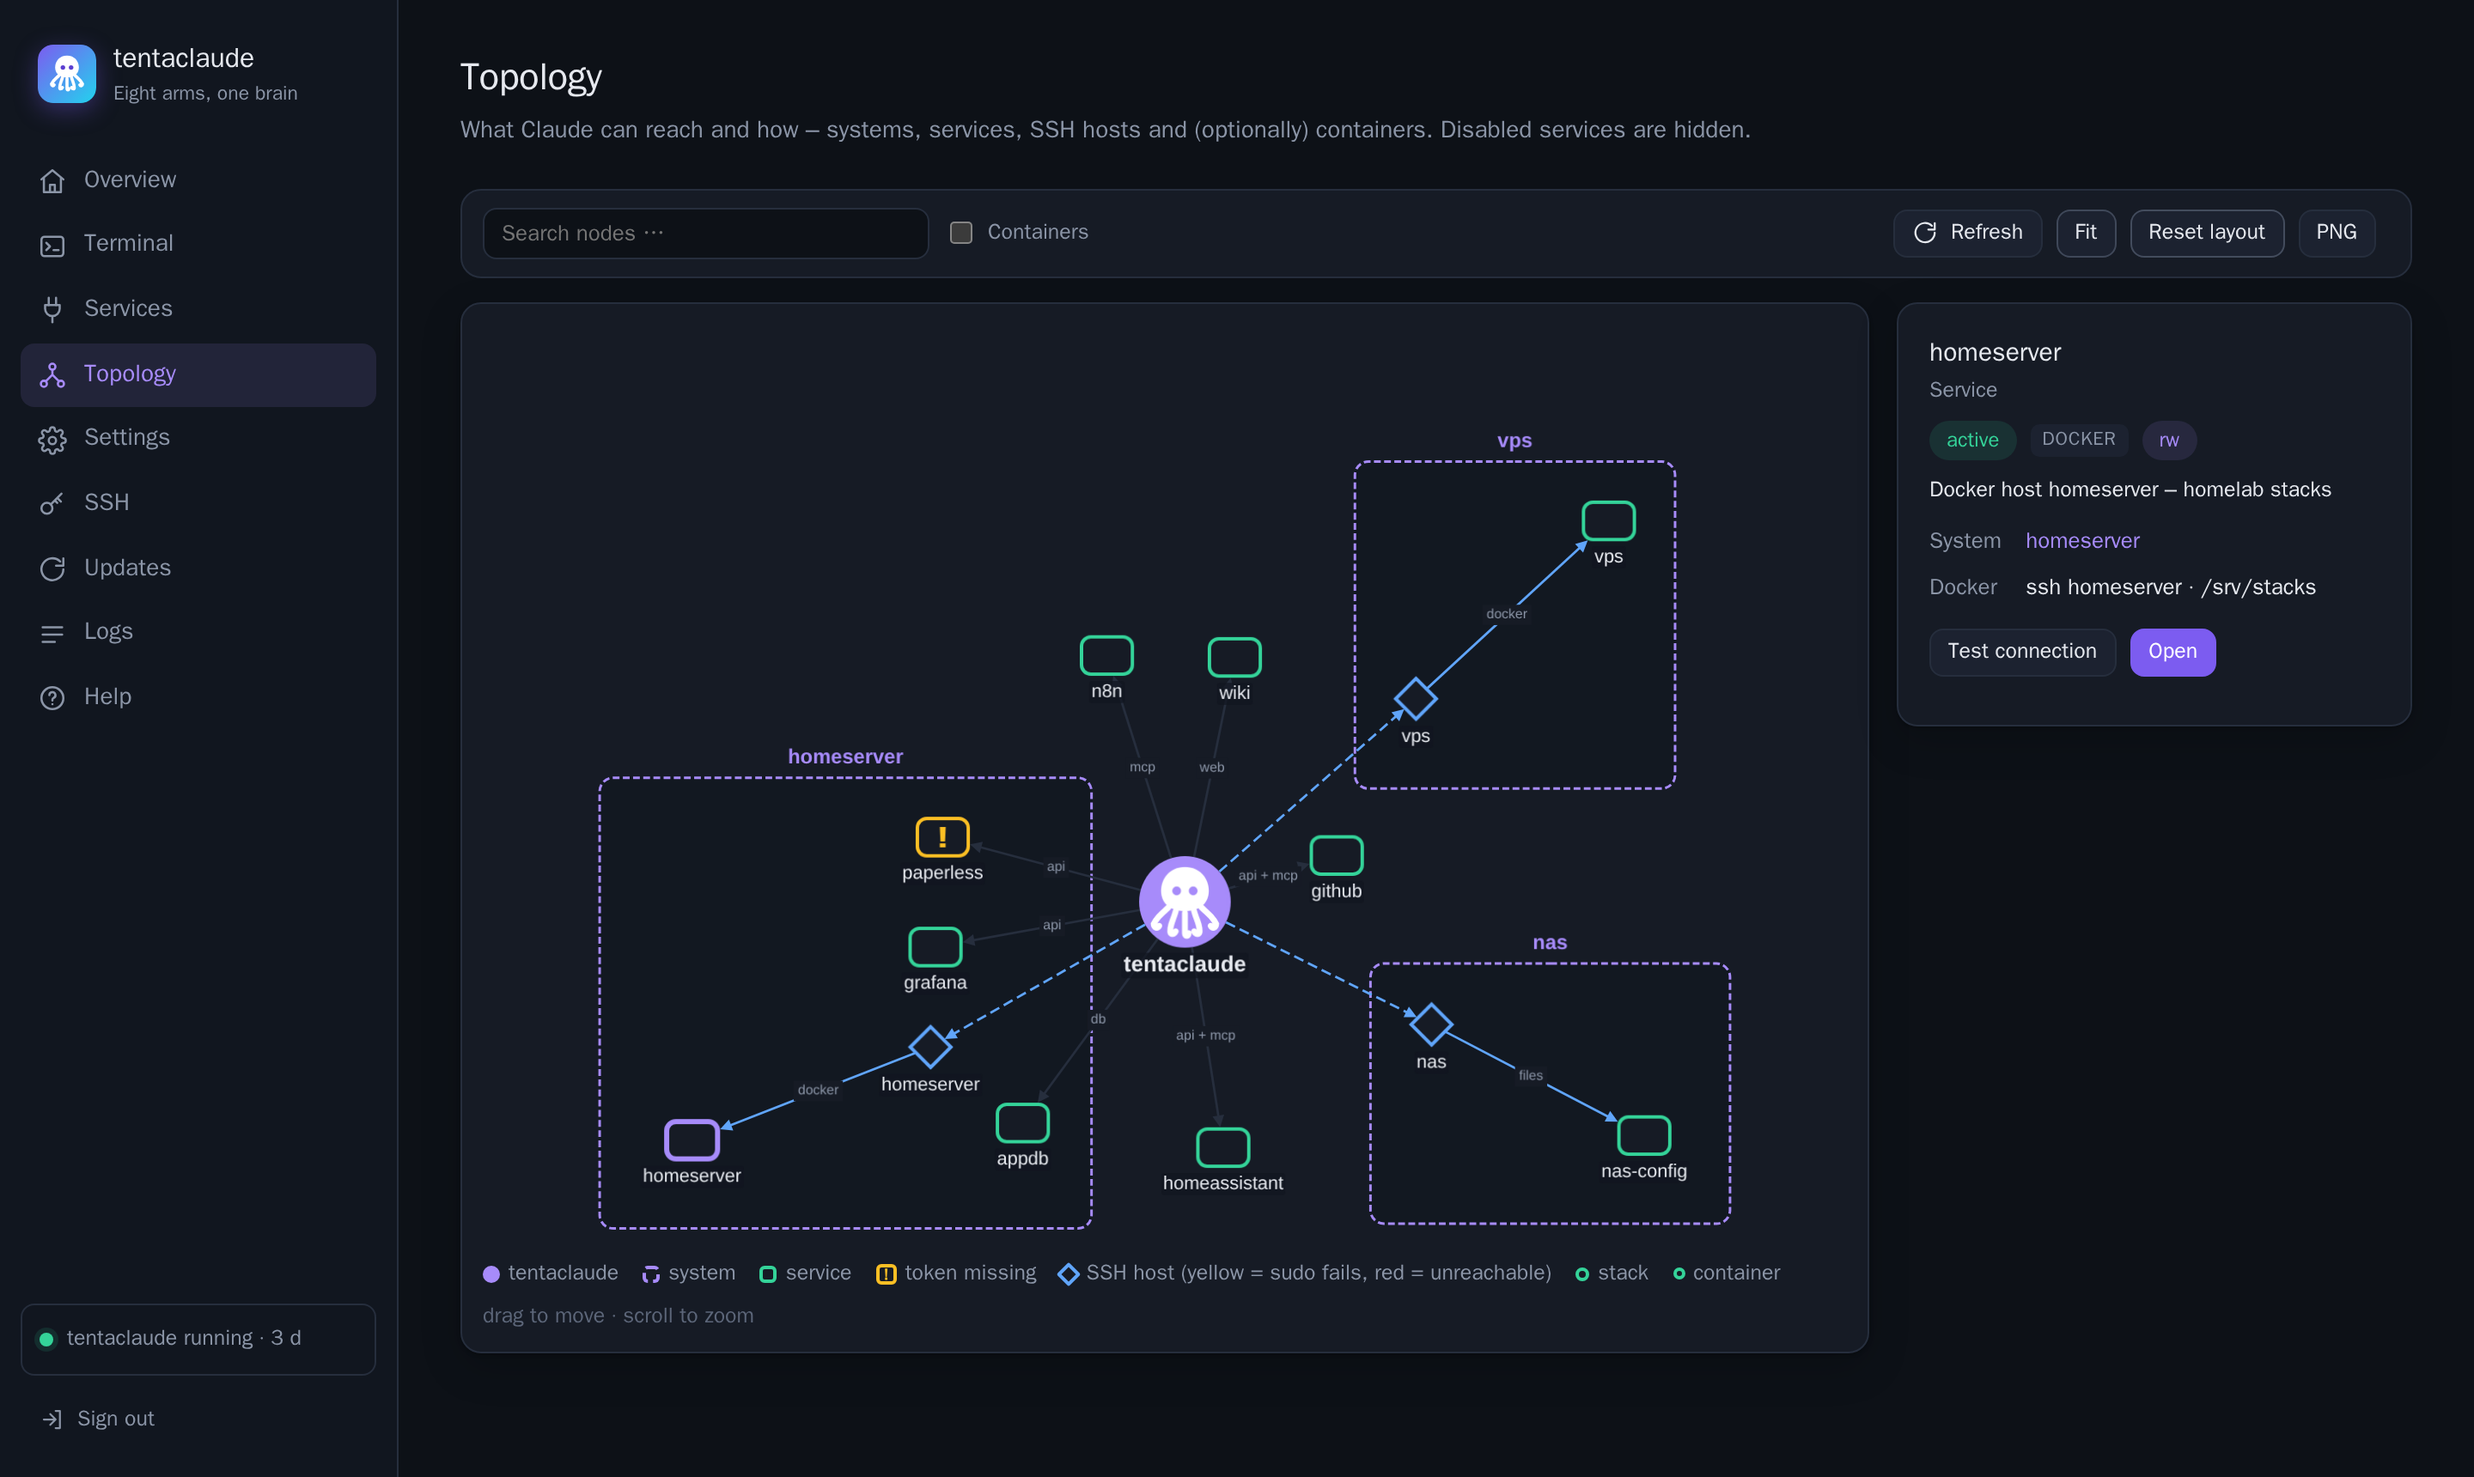
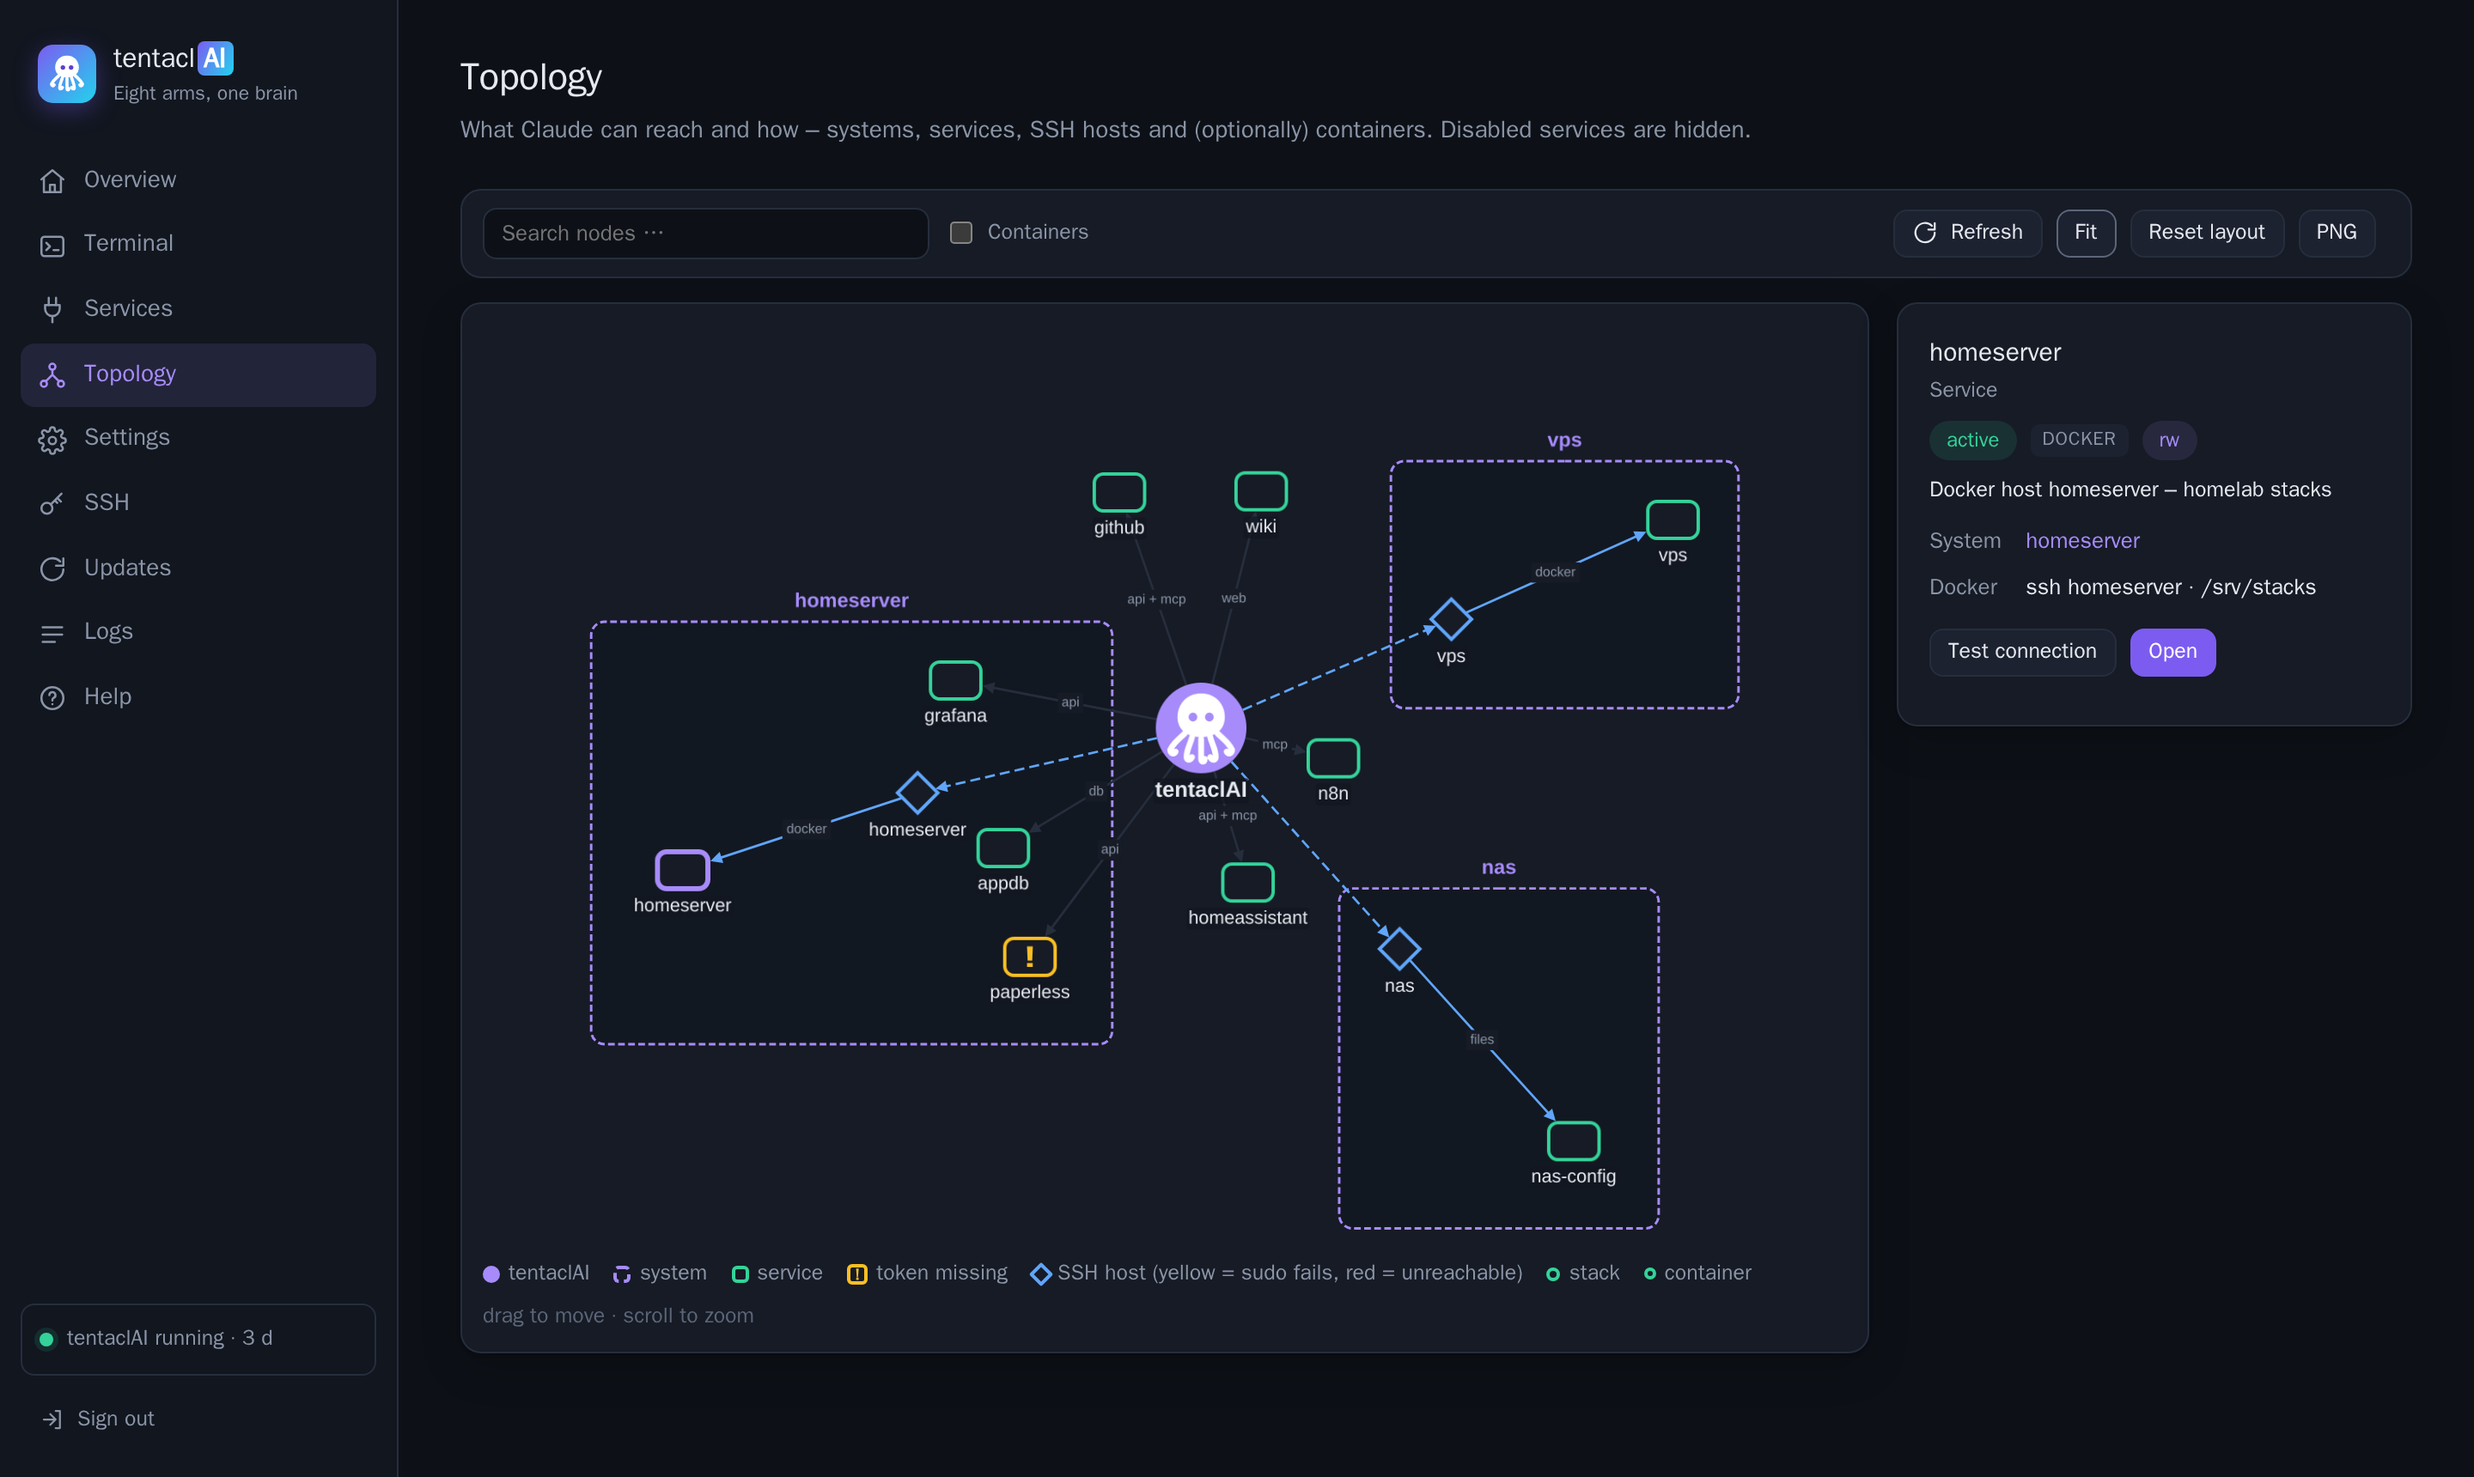
Branding: tentaclAI wordmark with AI badge, social preview
- wordmark "tentacl" + gradient AI badge in sidebar, login and setup
- README header uses the wordmark (light/dark via <picture>)
- docs/brand: social preview 1280×640 and wordmark PNGs
- screenshots and remaining display strings show tentaclAI

diff --git a/control/app/templates/base.html b/control/app/templates/base.html
@@ -13,7 +13,7 @@
 <body hx-headers='{"X-Requested-With": "htmx"}'>
 <div class="app">
   <aside class="sidebar">
-    <div class="brand"><img class="logo" src="/static/logo.svg?v={{ asset_v }}" alt="" width="32" height="32"><div>tentaclAI<small>Eight arms, one brain</small></div></div>
+    <div class="brand"><img class="logo" src="/static/logo.svg?v={{ asset_v }}" alt="" width="32" height="32"><div>tentacl<span class="ai-badge">AI</span><small>Eight arms, one brain</small></div></div>
     <nav class="nav">
       <a href="/" class="{{ 'active' if nav == 'dashboard' }}">{{ icon('home') }}Overview</a>
       <a href="/terminal" class="{{ 'active' if nav == 'terminal' }}">{{ icon('terminal') }}Terminal</a>

diff --git a/control/app/templates/setup.html b/control/app/templates/setup.html
@@ -9,7 +9,7 @@
 <body>
 <div class="auth">
   <form class="card" method="post" action="/setup">
-    <div class="brand"><img class="logo" src="/static/logo.svg?v={{ asset_v }}" alt="" width="32" height="32"><div>Set up tentaclAI</div></div>
+    <div class="brand"><img class="logo" src="/static/logo.svg?v={{ asset_v }}" alt="" width="32" height="32"><div>Set up tentacl<span class="ai-badge">AI</span></div></div>
     <p class="muted small">Choose the admin password. The setup token is in the container log:<br><code>./tentaclai.sh setup-url</code> or <code>docker logs tentacontrol</code></p>
     {% if error %}<div class="error">{{ error }}</div>{% endif %}
     <div class="field">

diff --git a/control/app/templates/login.html b/control/app/templates/login.html
@@ -9,7 +9,7 @@
 <body>
 <div class="auth">
   <form class="card" method="post" action="/login">
-    <div class="brand"><img class="logo" src="/static/logo.svg?v={{ asset_v }}" alt="" width="32" height="32"><div>tentaclAI<small>Eight arms, one brain</small></div></div>
+    <div class="brand"><img class="logo" src="/static/logo.svg?v={{ asset_v }}" alt="" width="32" height="32"><div>tentacl<span class="ai-badge">AI</span><small>Eight arms, one brain</small></div></div>
     {% if error %}<div class="error">{{ error }}</div>{% endif %}
     <div class="field">
       <label for="pw">Password</label>

diff --git a/control/app/static/app.css b/control/app/static/app.css
@@ -252,3 +252,6 @@ dialog.modal .card-head { margin-bottom: 12px; }
 .menu-item:hover { background: var(--panel-2); }
 .menu-item svg { width: 14px; height: 14px; color: var(--muted); }
 .menu-sep { height: 1px; background: var(--border); margin: 4px 2px; }
+/* wordmark: tentacl + AI badge */
+.ai-badge { display: inline-block; margin-left: 1px; padding: 0 4px; border-radius: 4px; line-height: 1.25; color: #fff; font-weight: 800;
+  background: linear-gradient(120deg, #7c5cf0, #22d3ee); }

diff --git a/control/app/main.py b/control/app/main.py
@@ -301,7 +301,7 @@ async def ws_terminal(ws: WebSocket, p: str = "claude", alias: str = "", target:
     await ws.accept()
     st = dockerops.status()
     if not st["running"]:
-        await ws.send_text(json.dumps({"type": "error", "msg": "tentaclai is not running – start it on the overview first."}))
+        await ws.send_text(json.dumps({"type": "error", "msg": "tentaclAI is not running – start it on the overview first."}))
         await ws.close()
         return
     try:
@@ -396,7 +396,7 @@ async def topology_docker(name: str):
     if not services_store.NAME.match(name):
         return JSONResponse({"error": "invalid name"}, status_code=400)
     if not dockerops.status()["running"]:
-        return JSONResponse({"error": "tentaclai is not running"}, status_code=409)
+        return JSONResponse({"error": "tentaclAI is not running"}, status_code=409)
     try:
         return JSONResponse({"stacks": await asyncio.to_thread(topology.docker_stacks, name)})
     except RuntimeError as e:

diff --git a/control/app/topology.py b/control/app/topology.py
@@ -22,7 +22,7 @@ def graph():
     def edge(src, dst, label="", kind="link"):
         edges.append({"data": {"id": f"{src}->{dst}", "source": src, "target": dst, "label": label, "kind": kind}})
 
-    node("core", "tentaclai", "core", info="Claude Code sandbox – reaches everything below only through these connections.")
+    node("core", "tentaclAI", "core", info="Claude Code sandbox – reaches everything below only through these connections.")
     for name, s in systems.items():
         node(f"sys:{name}", name, "system", info=s.get("description", ""), notes=s.get("notes", []),
              href=f"/systems/{name}", ssh=s.get("ssh_host", ""),

diff --git a/control/app/config.py b/control/app/config.py
@@ -23,7 +23,7 @@ def is_secret(key: str) -> bool:
 # (key, label, help, kind) – kind: text | bool | readonly
 SETTINGS_GROUPS = [
     ("General", [
-        ("TC_HOSTNAME", "Host name", "how Claude refers to the host tentaclai runs on", "text"),
+        ("TC_HOSTNAME", "Host name", "how Claude refers to the host tentaclAI runs on", "text"),
         ("TC_DOMAIN", "Internal domain", "prefills templates, e.g. n8n.<domain>", "text"),
         ("CONTROL_URL", "tentacontrol address", "for the setup link and help, e.g. https://tentacontrol.example.lan", "text"),
         ("TZ", "Time zone", "e.g. Europe/Vienna", "text"),

diff --git a/README.md b/README.md
@@ -1,8 +1,9 @@
 <p align="center">
-  <img src="control/app/static/logo.svg" width="96" height="96" alt="tentaclAI logo">
+  <picture>
+    <source media="(prefers-color-scheme: dark)" srcset="docs/brand/wordmark-on-dark.png">
+    <img src="docs/brand/wordmark-on-light.png" width="440" alt="tentaclAI">
+  </picture>
 </p>
-
-<h1 align="center">tentaclAI</h1>
 
 <p align="center"><strong>Eight arms, one brain.</strong><br>
 Sandbox + service gateway for Claude Code.</p>
